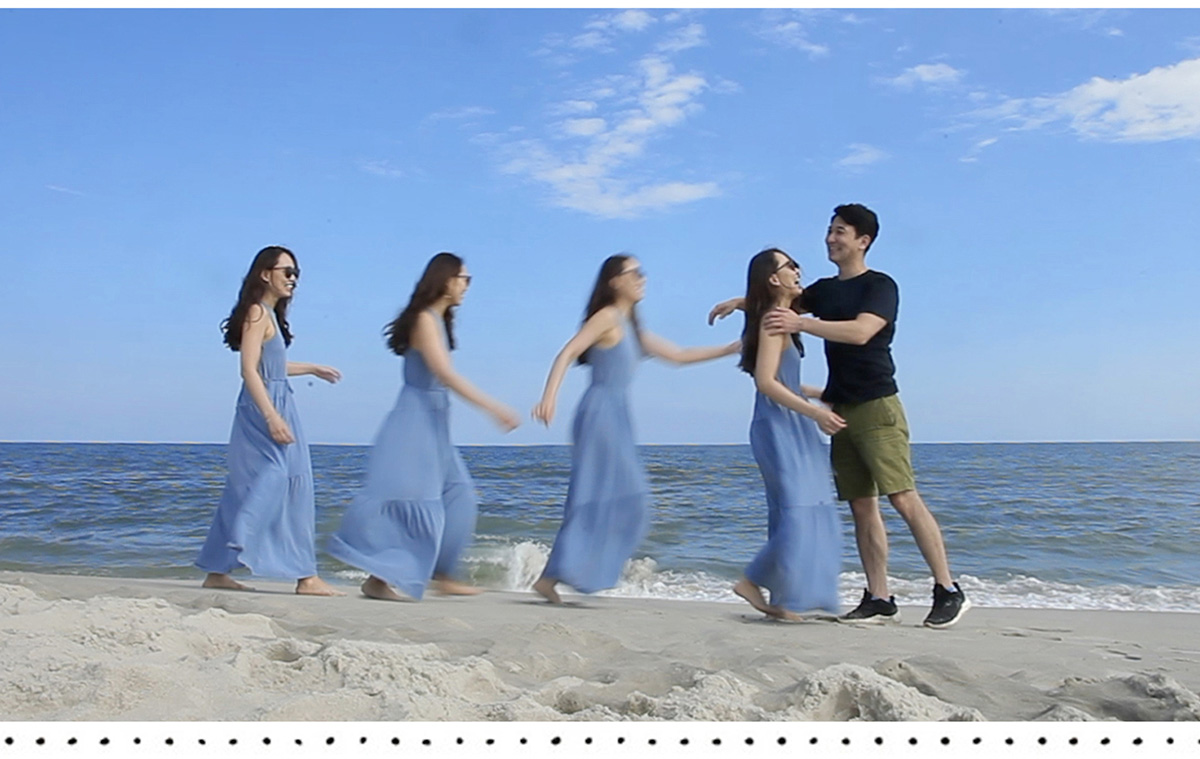
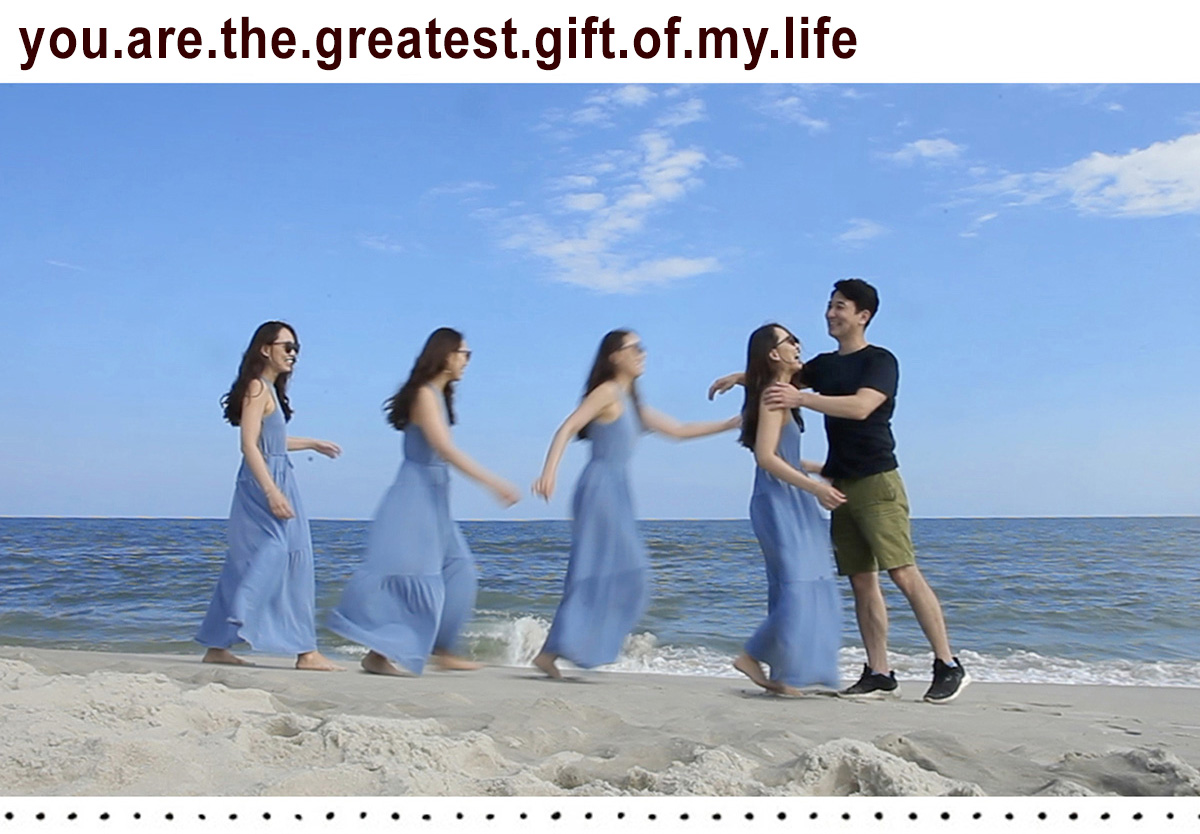
WEDDING UPDATE

diff --git a/index.html b/index.html
@@ -10,7 +10,7 @@
     <link rel="stylesheet" href="https://cdnjs.cloudflare.com/ajax/libs/font-awesome/4.7.0/css/font-awesome.min.css">
     <link rel="stylesheet" href="https://cdnjs.cloudflare.com/ajax/libs/normalize/4.2.0/normalize.min.css">
     <link href="https://fonts.googleapis.com/css?family=Roboto:300,400,500" rel="stylesheet">
-    <!-- <link href="./css/float-grid.css" rel="stylesheet" type="text/css" /> -->
+    <link href="https://fonts.googleapis.com/css2?family=Babylonica&family=Caveat&display=swap" rel="stylesheet">
     <link href="./css/index.css" rel="stylesheet" type="text/css" />
   </head>
   <body>
@@ -20,70 +20,73 @@
         <img id='js-main-img1' class='intro fi' src="./img/main1.jpg">
         <img id='js-main-img2' class='intro fi' src="./img/main2.jpg">
         <img id='js-main-img3' class='intro fi' src="./img/main3.jpg">
-        <img id='js-main-img4' class='intro fi' src="./img/main4.jpg">
+        <!-- only for the 2nd map -->
+        <img id='js-main-img-next' class='intro fi' src="./img/main_next.jpg">
+        <!-- <img id='js-main-img4' class='intro fi' src="./img/main4.jpg">
         <img id='js-main-img5' class='intro fi' src="./img/main5.jpg">
-        <img id='js-main-img6' class='intro fi' src="./img/main6.jpg">
+        <img id='js-main-img6' class='intro fi' src="./img/main6.jpg"> -->
       </div>
-      <div id='js-landing-bot' class='intro-bot'>
+      <!-- <div id='js-landing-bot' class='intro-bot'>
         <img id='js-main-img-next' class='main_img2 fi' src="./img/main_next.jpg">
-      </div>
+      </div> -->
     </header>
     <div id='js-page-loader' class="page_loader">
       <center>
-        <img id='js-loader-img' src="./img/loading-1.gif">
-        <BR><BR>
+        <img id='js-loader-img' style="opacity:0.7;" src="./img/loading-1.gif">
+        <BR>
         Loading...
       </center>
     </div>
     <main role='main'>
       <div id='js-bottom' class='main_bg'>
-        <div id='js-btn-mute'  onclick="stopMusic()" class="fi_short main_flex mute_icon hidden" style="background-color:transparent !important;">
-          <span class="fa-stack"  onclick="stopMusic()" class="" style="cursor:pointer;">
-            <i class="fa fa-volume-down fa-stack-1x" style="font-size:22px;width:32px;top:0;color:rgb(0,0,0,0.3);"></i>
-            <i class="fa fa-ban fa-stack-2x text-danger" style="color:rgb(255,0,0,0.3);font-size:30px;"></i>
+        <div id='js-btn-mute'  onclick="stopMusic()" class="fi_short mute_icon hidden" style="background-color:transparent !important;cursor:pointer">
+          <i class="fa fa-stop-circle-o" style="color:rgb(255,255,255,0.6);font-size:28px;"></i>
           </span>
         </div>
-        <!-- <div id='js-btn-mute' class="main_flex mute_icon hidden">
-          <button type="submit" onclick="stopMusic()" class="btn_black fi">
-            <i class="fa fa-stop-circle-o" style="font-size:22px;"></i><section class='btn_ft btn_scroll'>&nbsp Stop Music</section>  
-          </button>
-        </div> -->
-        <div>
+
           <audio
             controls hidden
             src="./img/situ.mp3">
             Your browser does not support the audio element.
           </audio>
-        </div>
+  
         <div id='js-greeting' class='greeting fi_short'>
           <br>
-          <section id='js-name' class="font_m letter_wide inline_center no_margin">ANTHONY & MINJUNG</section>
-          <center>
-            <img id='js-wedding' class='wedding_logo fi' src="./img/wedding.png">
-          </center>
-          <div id='js-btn-more' class="main_flex">
-            <button type="submit" onclick="playMusic()" class="btn_black fi_short more_pic">
-              <i class="fa fa-film" style="font-size:24px;"></i><section class='btn_ft btn_scroll'>&nbsp; &lt;&lt; Photos</section>
-            </button>
-          </div> 
-           
-          <div id='js-warning' class='main_flex w300 red fi_short'>
-            <BR>
-            * Please beware of music<BR><BR><BR><BR>
-          </div>    
+          <div id="js-cover-greeting">
+            <section id='js-name' class="font_m letter_wide inline_center no_margin">ANTHONY & MINJUNG</section>
+            <center>
+              <img id='js-wedding' class='wedding_logo fi' src="./img/wedding.png">
+            </center>
+            <div id='js-btn-more' class="main_flex">
+              <button type="submit" onclick="playMusic()" class="btn_black fi_short more_pic">
+                <i class="fa fa-film" style="font-size:24px;"></i><section class='btn_ft btn_scroll'>&nbsp; More Pics</section>
+              </button>
+            </div> 
+ 
+            <div id='js-warning' class='main_flex w300 red fi_short'>
+              <BR>
+              * Please beware of music<BR><BR><BR><BR>
+            </div>    
+          </div>
+
           <div id="js-msg-bottom" class="hidden">
+            
+            <section id='js-name-next' class="wedding_name letter_wide inline_center no_margin">Anthony & Minjung</section><BR>
+              <div class='main_flex fi_short'>
+                <img src="./img/leaf.png" class="leaf">
+              </div>
+            <div id='js-msg' class='main_flex w300 fi_short'>
+              <BR>WE DECIDED ON FOREVER<BR><BR>
+            </div>
             <div id='js-date' class='main_flex w300 fi_short'>
               APRIL &nbsp; | &nbsp; 20 &nbsp; | &nbsp; 2022<BR><BR>
             </div>
 
             <div class='main_flex w300 fi_short'>
-              <!-- <i class="fa fa-solid fa-cog fa-spin" style="color:#2a2c2d;font-size:24px;margin-top:-4px;"></i> -->
               PLEASE SCROLL THE SCREEN
             </div>
-            <BR>
             <div id='js-date' class='main_flex w300 fi_short'>
-              <i class="fa fa-hand-o-down" style="color:#2a2c2d;font-size: 28px"></i>
-              <!-- APRIL &nbsp; | &nbsp; 20 &nbsp; | &nbsp; 2022 -->
+                <img src='./img/down-arrow.gif' class="down_arrow">
             </div><BR><BR>  
           </div>
         </div>  
@@ -98,7 +101,7 @@
         <div id='js-more-pic' class='more_pic'>
           <div class="bgcolor_white">
             <BR><BR>
-            <div id='js-logo-wrap' style='background-color:#fff;'>
+            <div id='js-logo-wrap' class='main_flex' style='background-color:#fff;'>
               <a href='https://www.instagram.com/anthony_philly/'>
                 <img id='js-mobile-logo' class='mobile_icon' src='./img/adlogo.png'>
               </a>
@@ -116,15 +119,19 @@
 
             </div>
 
-            <div class="top_padding_m opacity_bg">
+            
+            <div class="top_padding_m trans" >
+            </div>
+
+            <div class="opacity_bg" >
               <img class='inline_center img_l img_no margin_top_neg bottom_neg trans' src="./img/24.png"><BR>
                     
             </div>
             <div class="bgcolor_white margin_l">
                 <BR><BR>
                 <!-- <img class='inline_center img_l img_no no_margin margin_top_neg' src="./img/25.jpg"><BR><BR><BR><BR> -->
-                <img class='inline_center img_l img_no no_margin' src="./img/26.jpg"><BR><BR><BR>
                 <img class='inline_center img_l img_no' src="./img/28_.jpg"><BR>
+                <img class='inline_center img_l img_no no_margin' src="./img/26.jpg"><BR><BR><BR><BR>
                 <img class='inline_center img_l img_no' src="./img/50.jpg"><BR>
                 <img class='inline_center img_l img_no' src="./img/54.jpg"><BR>
                 <img class='inline_center img_l img_no padding_added' src="./img/51.jpg"><BR>
@@ -149,7 +156,8 @@
 
           <div id='js-btn-mute-2' class="main_flex bgcolor_white">
             <button type="submit" onclick="stopMusic()" class="btn_black fi">
-              <i class="fa fa-stop-circle-o" style="font-size:22px;"></i><section class='btn_ft btn_scroll'>&nbsp Stop Music</section>  
+              <i class="fa fa-stop-circle-o" style="font-size:22px;"></i>
+              <section style="line-height: 22px;">&nbsp Stop Music</section>
             </button>
           </div>                  
     

diff --git a/js/index.js b/js/index.js
@@ -1,9 +1,10 @@
 'use strict';
 
 // const PIC_LIST = [$('#js-main-img1'), $('#js-main-img2'), $('#js-main-img3'), $('#js-main-img4'), $('#js-main-img5'), $('#js-main-img6')];
-const PIC_LIST = [1, 2, 3, 4, 5, 6];
+const PIC_LIST = [1, 2, 3];
 let NEXT_PIC = 0;
 let CURRENT_PIC = PIC_LIST.length - 1;
+let STOP = false;
 
 function morePicBanner() {
   $('#js-landing').replaceWith(`
@@ -15,10 +16,17 @@ function morePicBanner() {
 
 function playMusic() {
   window.document.querySelector('audio').play();
+  STOP = true; // stop slide show
   $('#js-btn-more').hide();
   $('#js-warning').hide();
+  $('#js-cover-greeting').hide();
   $('#js-greeting').css('display', 'none');
-  $('.intro').hide();
+//hide
+  // $('.intro').hide();
+  $('#js-main-img1').hide();
+  $('#js-main-img2').hide();
+  $('#js-main-img3').hide();
+
   $('#js-main-img-next').css('display', 'block');
   // $('#js-main-img').attr('src', './img/capemay_bw.jpg');
   $('#js-main-img').addClass('fi_short');
@@ -32,7 +40,8 @@ function playMusic() {
   setTimeout(function () {
     // $('#js-main-img').attr('src', './img/capemay.jpg');
     $('#js-loader').css('display', 'none');
-    $('#js-greeting').addClass('background_2');
+    // $('#js-landing').hide();
+    // $('#js-greeting').addClass('background_2');
     $('#js-greeting').css('display', 'block');
     $('#js-more-pic').css('display', 'block');
     $('#js-btn-mute').css('display', 'flex');
@@ -75,20 +84,15 @@ function renderMainImage() {
   $('#js-bottom').css('margin-top', height*greetingTopFactor*1.05);
   // $('#js-btn-mute').css('margin-top', height*greetingTopFactor*1.05);
   $('.intro').css('height', height * heightFactor);
-  $('#js-main-img-next').css('height', height);
+
+//okim  $('#js-main-img-next').css('height', height * 0.6);
   // $('#js-landing').css('bottom', bottomFactor);
   $('.intro').css('bottom', bottomFactor);
-  
-  if (isLandscape && width > 1600) {
-    $('#js-logo-wrap').addClass('main_flex');
-    // $('#js-mobile-logo').css('margin-left', '10vw');
-    // $('#js-copy-right').css('margin-left', '10vw');
-  }
 
   if (!isLandscape) {
     $('#js-greeting').css('background-position', 'top right');
     $('#js-greeting').css('background-size', '100%');
-    $('#js-mobile-logo').css('width', '180px');
+    $('#js-mobile-logo').css('width', '220px');
     $('.img_p, .img_l').css('padding', '7% 0');
     $('.img_p, .img_l').css('margin-bottom', '11%');
     $('#js-name').css('font-size', '1.4rem');
@@ -110,7 +114,7 @@ function renderMainImage() {
 function handleEvent() {;
   let songTrack = 0;
   const songList = ['./img/song-fallin.m4a', './img/situ.mp3', './img/madeleine.mp3'];
-  // songList.sort(() => Math.random() - 0.5);
+  songList.sort(() => Math.random() - 0.5);
 
   $('audio').attr('src', songList[songTrack++]);
 
@@ -125,9 +129,17 @@ function handleEvent() {;
       window.document.querySelector('audio').play();
     }
   });
+
 }
 
 async function slideShowPlay() { 
+  if (STOP === true) {
+    $('#js-main-img1').hide();
+    $('#js-main-img2').hide();
+    $('#js-main-img3').hide();  
+    return;
+  }
+
   if (NEXT_PIC === 0) $(`#js-main-img${PIC_LIST[CURRENT_PIC]}`).css('z-index', '-2');
   $(`#js-main-img${PIC_LIST[NEXT_PIC]}`).css('display', 'block');
 
@@ -145,7 +157,7 @@ function loader() {
     $('#js-page-loader').css('display', 'none');
     $('.intro').css('display', 'none');
     $('#js-main-img1').css('display', 'block');
-  }, 500);
+  }, 1500);
 }
 
 $(_=> {

diff --git a/css/index.css b/css/index.css
@@ -29,6 +29,11 @@ body {
   flex-flow: nowrap !important;
 }
 
+.down_arrow {
+  width: 20px;
+  margin-top: 12px;
+}
+
 .top_logo {
   display: flex;
   justify-content: space-between;
@@ -75,23 +80,31 @@ body {
   background-color: rgb(255, 255, 255, 0.8);
 }
 
+.leaf{
+  opacity: 0.5;
+  width: 220px;
+  height: 60px;
+  margin-top: -24px;
+}
+
 .trans {
   background-color: transparent !important;
 }
 
 .opacity_bg {
-  background-color: rgb(255, 255, 255, 0.2) !important;
+  background-color: rgb(255, 255, 255, 0.5) !important;
 
 }
 .top_padding_m {
-  padding-top: 50px;
+  padding-top: 150px;
 }
 
 .mobile_icon {
-  margin-left: 10px;
+  margin-left: auto;
+  margin-right: auto;
   margin-top: 10px;
   margin-bottom: -5%;
-  background-color: rgba(255, 255, 255, 0.8);
+  background-color: rgba(255, 255, 255, 1);
 }
 
 .main_flex {
@@ -259,9 +272,9 @@ body {
   top:0;
   left:0;
   padding-top: 20%;
-  width: 100%;
-  height: 100%;
-  z-index: 10;
+  width: 98%;
+  height: 98%;
+  z-index: 90;
 }
 
 .banner {
@@ -358,7 +371,7 @@ margin-top: 2rem;
 }
 
 .copy_right {
-  border-top: 1px solid #DDDDDD;
+  /* border-top: 1px solid #DDDDDD; */
   text-align: center;
   padding: 5px;
   padding-top: 10vh;
@@ -375,6 +388,17 @@ margin-top: 2rem;
   margin-bottom: 1rem;
 }
 
+
+.wedding_name {
+  font-family: 'Caveat', cursive;
+  font-size: 2.2rem;
+  color: #2b390e;
+  letter-spacing: 0.01rem; 
+  line-height: 2.8rem;;
+  font-weight: 400;
+  margin-top: 1.2rem;
+  margin-bottom: 1rem;
+}
 
 /* font medium */
 .font_m {
@@ -442,7 +466,8 @@ ul {
 }
 
 .mute_icon {
-  margin-bottom: 16px;
+  margin-bottom: 4px;
+  margin-left: 6%;
   
 }
 
@@ -455,7 +480,7 @@ ul {
 }
 
 .margin_l {
-  margin-bottom: 500px;
+  margin-bottom: 350px;
 }
 
 .padding_added {
@@ -541,7 +566,7 @@ ul {
 }
 
 .warning_mobile {
-  font-size: 18px;
+  font-size: 14px;
 }
 
 a,
@@ -676,3 +701,4 @@ a:focus  {
   outline: none;
   opacity: 0.9;
 }
+
